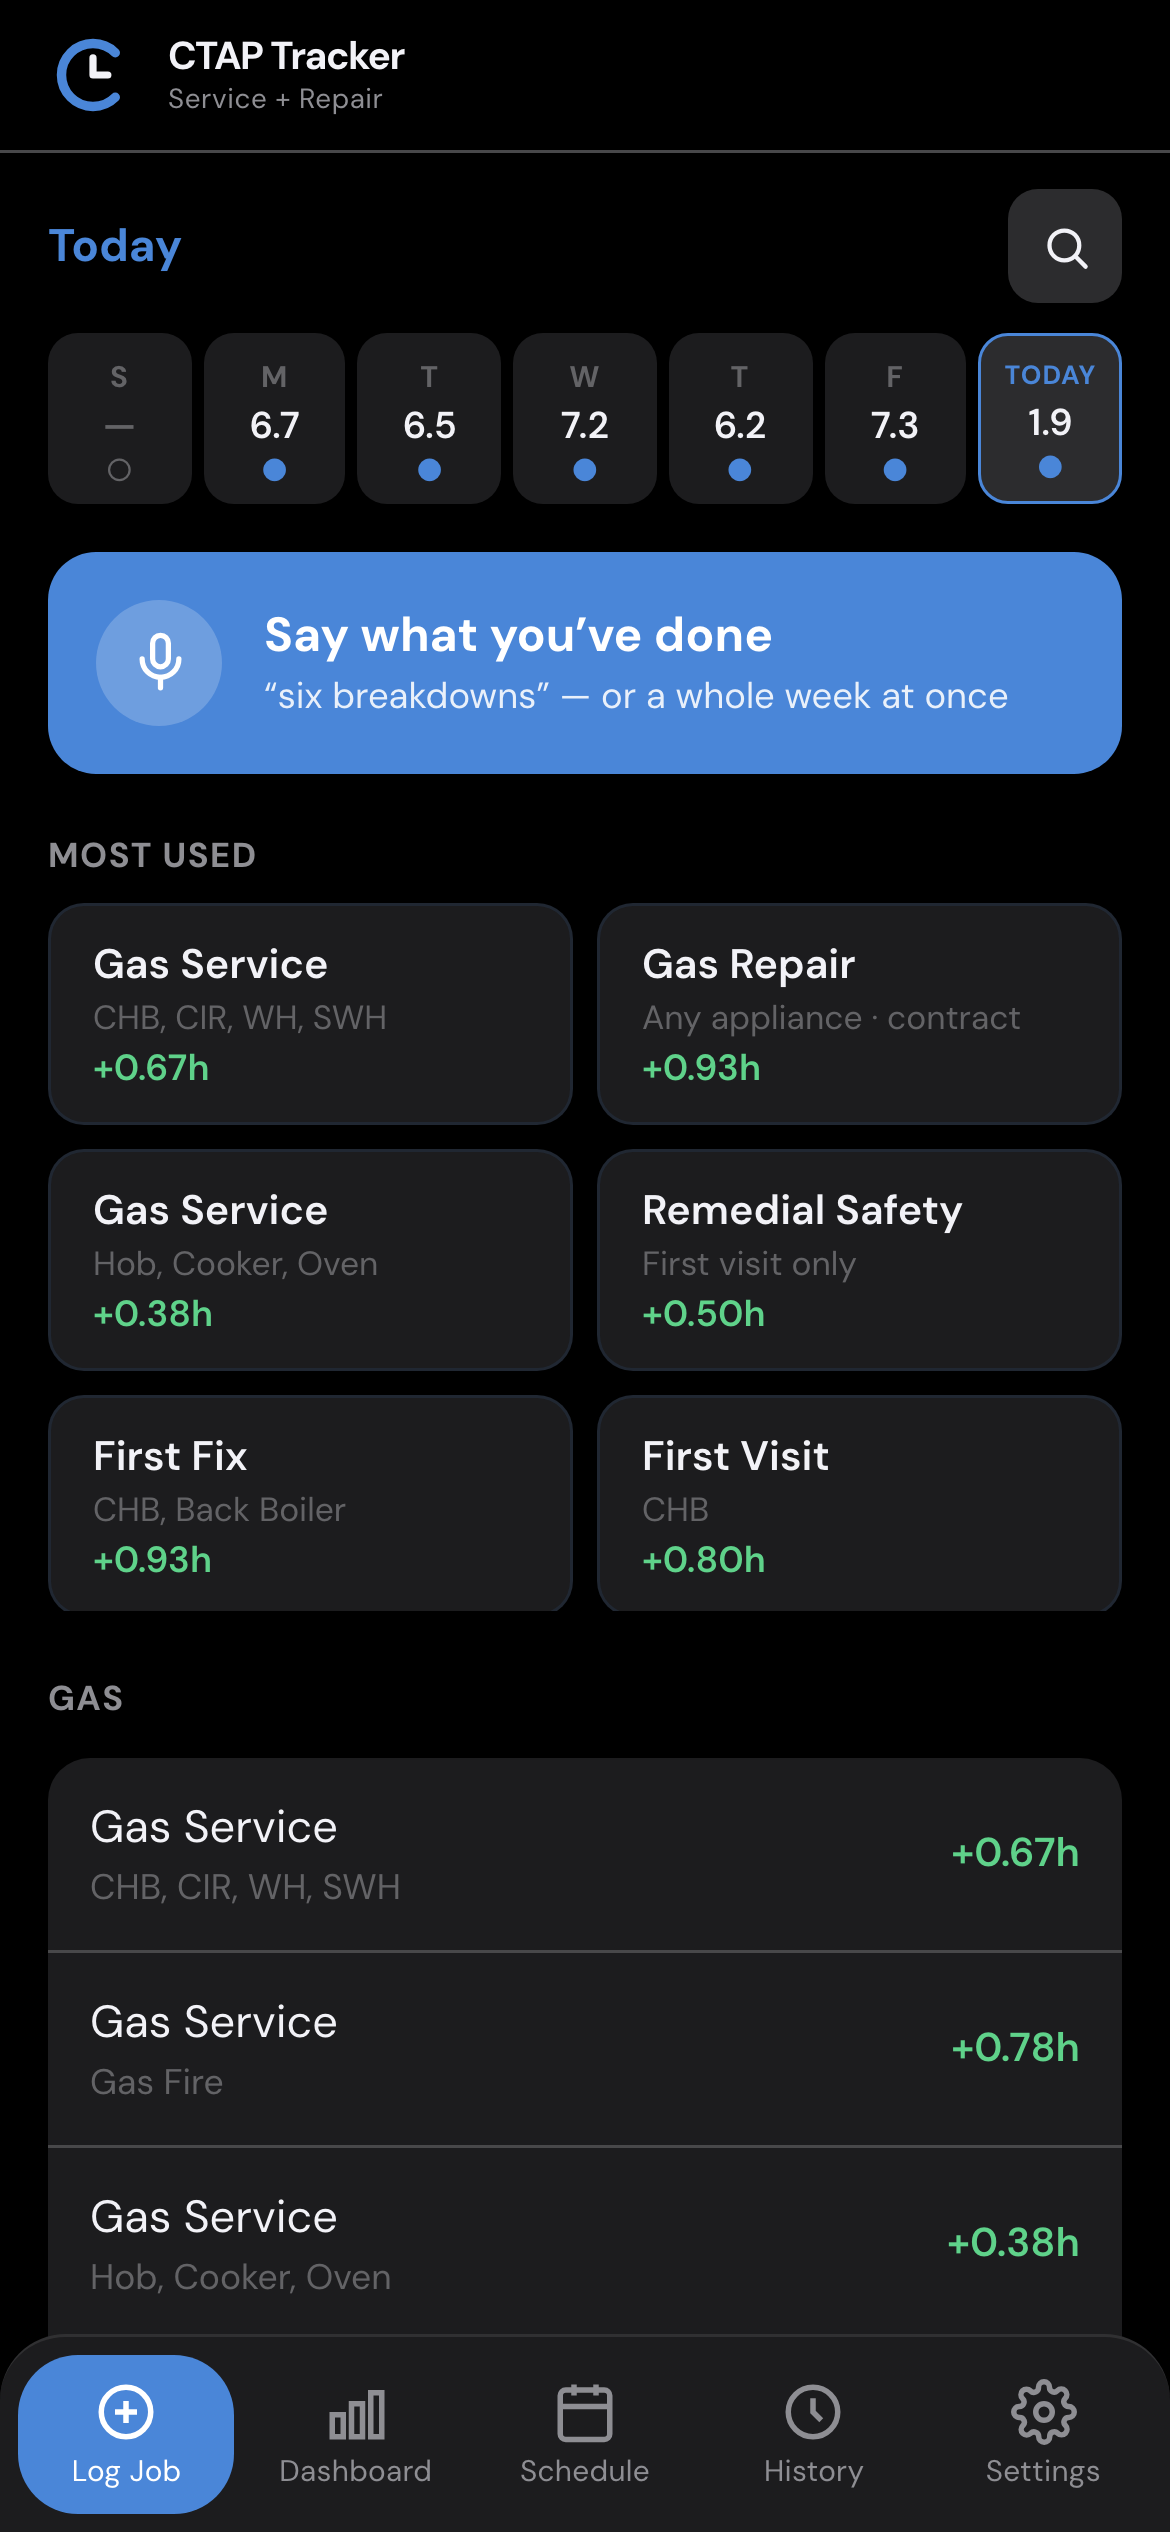
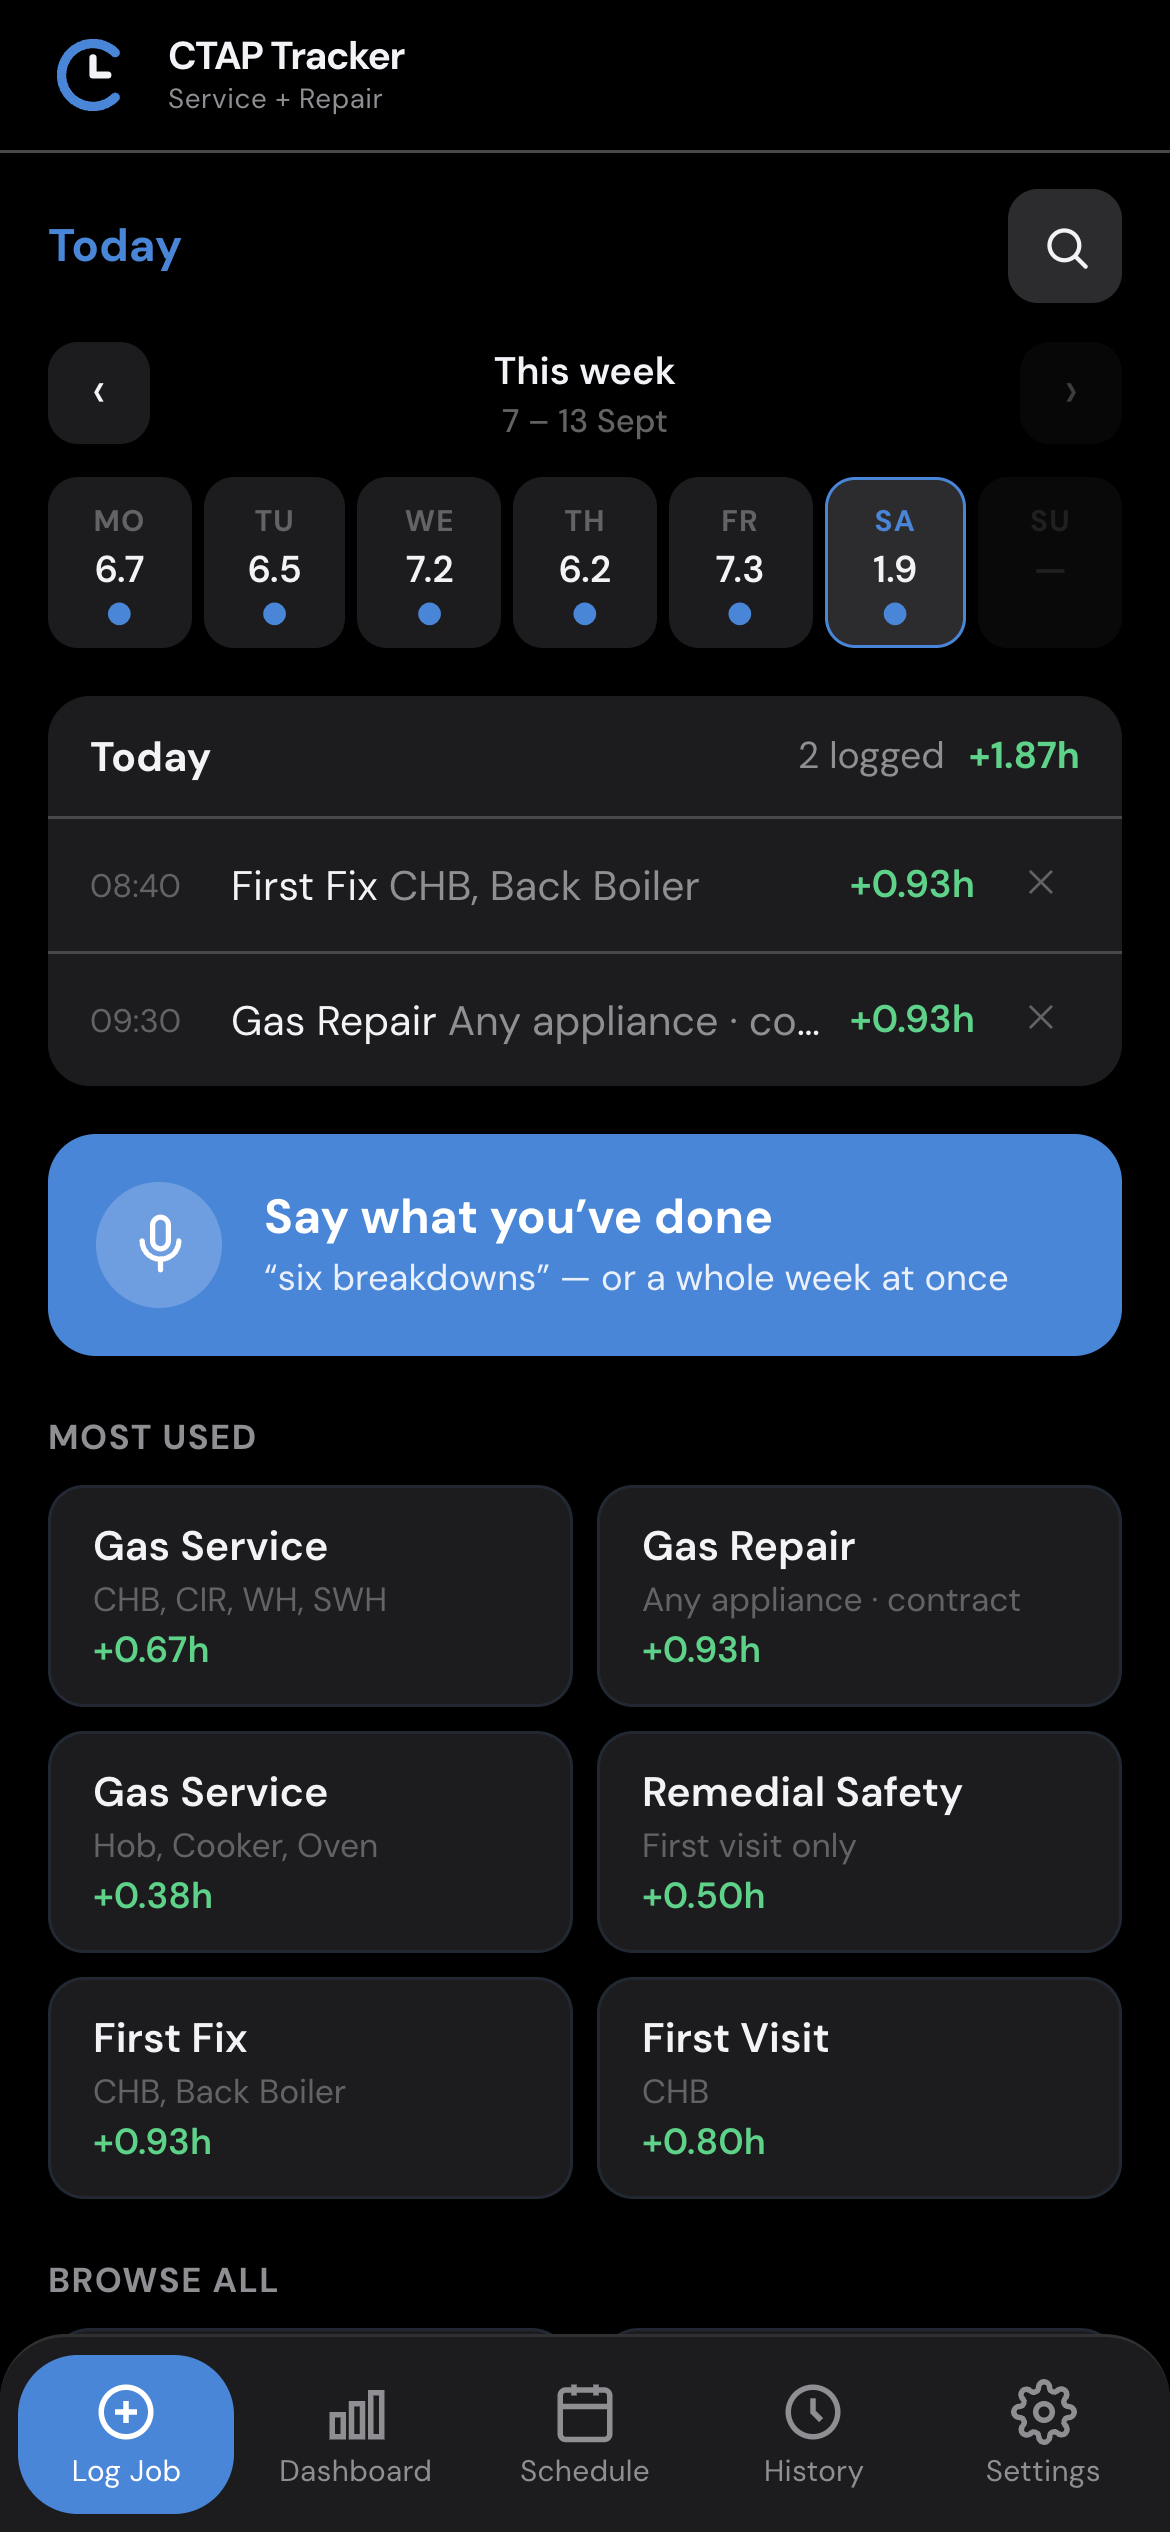
Reshoot the guides for the new Log Job, and give the categories their own steps
The guide is what the ten trial engineers read, so its pictures and its copy
have to match the app they open. Callout 5 described "every job, grouped by
type" in one scroll, which is no longer a screen that exists.

The full guide gains two steps: the four category tiles below Most used, and a
category opened over the whole screen with the day it is logging into carried
at the top. The Log Job step itself now describes the Monday-to-Sunday week and
the day's entries, which are the two things engineers said they could not read.

The shoot tool takes the two new shots, so the set stays reproducible rather
than drifting the way the old hand-shot set did.

docs/guide/README.md's Log Job section was stale beyond this change — it still
described solid and dashed tiles, and named the categories by their internal
keys (Core, Sales). Rewritten to the screen as built.

diff --git a/app/guide/full.html b/app/guide/full.html
@@ -213,6 +213,8 @@
       <li><a href="#schedule">Schedule</a></li>
       <li><a href="#shifts">Shift picker</a></li>
       <li><a href="#log">Log Job</a></li>
+      <li><a href="#browse">Browse all</a></li>
+      <li><a href="#category">A category</a></li>
       <li><a href="#voice">Say it</a></li>
       <li><a href="#dashboard">Dashboard</a></li>
       <li><a href="#cashout">Cash-Out</a></li>
@@ -309,11 +311,40 @@
           <p>The app opens here. Built to be used one-handed between calls.</p>
         </div>
         <ol class="callouts">
-          <li data-pin="1"><span class="num">1</span><span class="txt"><b>Search</b> any job by name.</span></li>
-          <li data-pin="2"><span class="num">2</span><span class="txt"><b>Day strip.</b> Hours credited each day this week. Tap a day to log against it if you forgot one.</span></li>
-          <li data-pin="3"><span class="num">3</span><span class="txt"><b>Say what you've done.</b> The blue bar. More on this next.</span></li>
-          <li data-pin="4"><span class="num">4</span><span class="txt"><b>Most used.</b> Your six most-logged jobs. One tap logs it at its credit value.</span></li>
-          <li data-pin="5"><span class="num">5</span><span class="txt"><b>Every job</b>, grouped by type (Gas, Hive, Sales, Absence), each with its credit value. Jobs with a dashed edge ask for a time first: wait work, NPT, trace and repair.</span></li>
+          <li data-pin="1"><span class="num">1</span><span class="txt"><b>Search</b> any job by name — across every category, wherever you are.</span></li>
+          <li data-pin="2"><span class="num">2</span><span class="txt"><b>Your week</b>, Monday to Sunday, with the hours credited on each day. Tap a day to log against it if you forgot one; the arrows step back to a week you've finished.</span></li>
+          <li data-pin="3"><span class="num">3</span><span class="txt"><b>What's on that day.</b> Everything you've logged to it, as you log it — so you can see the tap landed, and what it landed as. The <b>✕</b> takes one back off.</span></li>
+          <li data-pin="4"><span class="num">4</span><span class="txt"><b>Say what you've done.</b> The blue bar. More on this next.</span></li>
+          <li data-pin="5"><span class="num">5</span><span class="txt"><b>Most used.</b> Your six most-logged jobs. One tap logs it at its credit value.</span></li>
+        </ol>
+      </section>
+
+      <!-- 5b Browse all -->
+      <section class="step" id="browse" data-shot="log-browse">
+        <div class="step-head">
+          <span class="kicker">Log Job tab · below Most used</span>
+          <h2>Everything else, by category</h2>
+          <p>The other 45 jobs live behind four tiles, so you're not scrolling one list of 51 to find the one you want.</p>
+        </div>
+        <ol class="callouts">
+          <li data-pin="1"><span class="num">1</span><span class="txt"><b>Browse all.</b> Four categories, each saying how many jobs are in it.</span></li>
+          <li data-pin="2"><span class="num">2</span><span class="txt"><b>Gas and Hive.</b> Services, repairs and certificates; smart controls and leads.</span></li>
+          <li data-pin="3"><span class="num">3</span><span class="txt"><b>SGO and Absence.</b> Sales credits and fits; leave, NPT and mentor days.</span></li>
+        </ol>
+      </section>
+
+      <!-- 5c A category -->
+      <section class="step" id="category" data-shot="log-category">
+        <div class="step-head">
+          <span class="kicker">Log Job tab · a category</span>
+          <h2>Tap a tile, get the list</h2>
+          <p>The category takes the whole screen. Tap a job and it's logged, and you stay where you are.</p>
+        </div>
+        <ol class="callouts">
+          <li data-pin="1"><span class="num">1</span><span class="txt"><b>Back</b> to the tiles.</span></li>
+          <li data-pin="2"><span class="num">2</span><span class="txt"><b>The day this is going to.</b> It follows you in, so a backdated job can't land on today by mistake. Tap it to pick a different day.</span></li>
+          <li data-pin="3"><span class="num">3</span><span class="txt"><b>Search</b> from here too — it still looks across all four categories.</span></li>
+          <li data-pin="4"><span class="num">4</span><span class="txt"><b>Every job with its credit value.</b> The ones marked <b>Variable</b> ask for a time first: wait work, NPT, trace and repair.</span></li>
         </ol>
       </section>
 
@@ -492,7 +523,9 @@
   var PINS = {
     'setup-card':    [[8.4, 44.2], [8.4, 51.3], [8.4, 57.5]],
     'dashboard':     [[53, 2.2], [4.3, 16.3], [4.3, 35.6], [4.3, 45.3], [4.3, 63.4], [50.6, 63.4], [4.3, 84]],
-    'log-job':       [[86.3, 7.6], [4.3, 13.3], [4.3, 21.9], [4.3, 35.8], [4.3, 69.5]],
+    'log-job':       [[91, 9.7], [8.4, 15.5], [4.3, 29.9], [4.3, 49.2], [4.3, 56.7]],
+    'log-browse':    [[13.9, 63.1], [50, 70.8], [50, 82.9]],
+    'log-category':  [[6, 9.7], [4.3, 15.1], [88, 15.1], [4.3, 22]],
     'schedule':      [[4.2, 13.7], [65.6, 13.7], [18.8, 23], [76.3, 23.5], [92.2, 23.8], [64.2, 60.9], [4.2, 68.4]],
     'shift-picker':  [[5.2, 46.2], [73.4, 70.2], [3.1, 80.8], [46.9, 76.3], [5.2, 85.3], [28.9, 93.6]],
     'history':       [[4.3, 7.5], [4.3, 25.1], [8.4, 40.9], [39, 40.9]],

diff --git a/app/guide/index.html b/app/guide/index.html
@@ -213,12 +213,12 @@
         </div>
       </section>
 
-      <section class="step" data-shot="log-job" data-dots="50,21.9">
+      <section class="step" data-shot="log-job" data-dots="50,22.3;50,29.9">
         <div class="step-text">
         <span class="step-num">4</span>
         <span class="where">Log Job tab</span>
         <h2>Log your jobs</h2>
-        <p>Tap a job. Or tap the blue bar and say it: <span class="say">“six breakdowns and two services”</span>. Check the list, then tap <b>Log</b>.</p>
+        <p>Tap a job from <b>Most used</b>, or a category tile below it. Or tap the blue bar and say it: <span class="say">“six breakdowns and two services”</span>, then tap <b>Log</b>. Whatever you log shows under the week strip, on the day it went to.</p>
         </div>
       </section>
 

diff --git a/docs/guide/README.md b/docs/guide/README.md
@@ -116,22 +116,39 @@ next to the numbers.
 
 ![Log Job tab](screenshots/log-job.png)
 
-Categories: **Core**, **Hive**, **Sales**, **Absence**. Each contains tiles
-for the jobs you'd actually log.
-
 ### Key actions
 
-- **Tap a solid tile** to log instantly at the standard credit time.
-- **Tap a dashed tile** for variable jobs — it'll prompt for the extra input
-  (e.g. minutes spent, units fitted) and calculate credit from that.
-- **Day picker** at the top lets you log against past days if you forgot to
-  enter something at the time.
+- **Your week** runs across the top, Monday to Sunday, with the hours credited
+  on each day. Tap a day to log against it if you forgot something at the time;
+  the arrows step back to a week you've already finished.
+- **What's on that day** sits under the week, and fills in as you log. It is
+  how you tell a tap landed, and what it landed as. The **✕** takes one back off.
+- **Most used** is your six most-logged jobs. One tap logs at the standard
+  credit time.
+- **Search** finds any job by name, subtitle or code, from anywhere on the tab.
 
-### Why category tiles instead of a typed list?
+### The other 45 jobs
+
+![Browse all](screenshots/log-browse.png)
+
+Below Most used, the catalogue sits behind four tiles — **Gas** (20),
+**Hive** (13), **SGO** (10) and **Absence** (8). Tapping one opens that
+category over the whole screen.
+
+![A category](screenshots/log-category.png)
+
+The day you're logging into follows you in, so a backdated job can't land on
+today by mistake. Jobs marked **Variable** ask for an input first (minutes
+spent, units fitted) and work the credit out from that.
+
+### Why categories instead of one list?
 
 Engineers don't have time to type a job name on a phone keyboard between
-appointments. Tiles are one-tap. The most common jobs sit at the top of each
-category so the muscle memory builds fast.
+appointments, so the list has to be tappable. But 51 jobs in one scroll meant
+scrolling past Hive and SGO to reach Absence and losing your place — which is
+what the first trial engineers reported. Most used covers the daily handful
+without any scrolling at all; the categories are for the long tail. See
+`docs/adr/0019-log-job-is-a-week-and-four-categories.md`.
 
 ---
 
